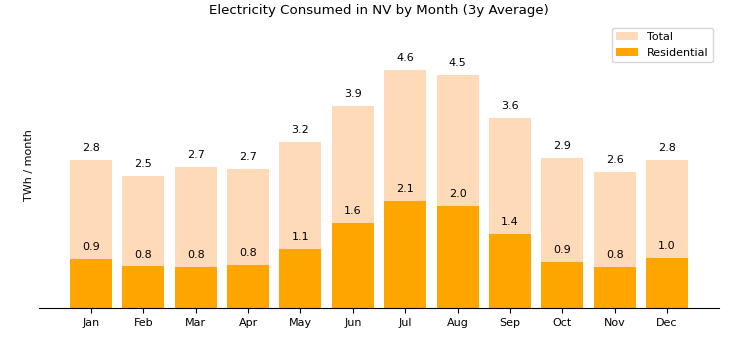
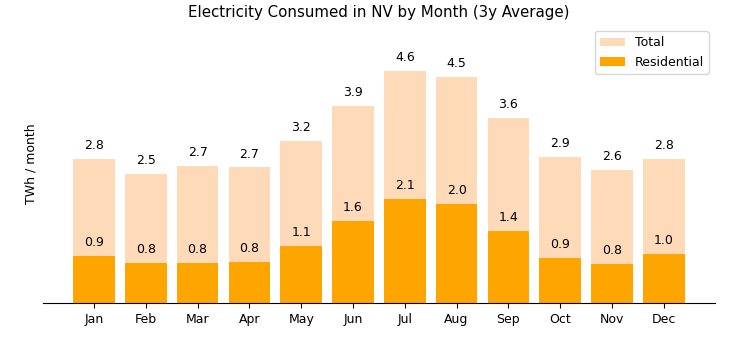
find winter-summer peaks

diff --git a/post3.py b/post3.py
@@ -76,6 +76,28 @@ def print_normalized_graphs(NVE: NVenergyUsage, start: datetime, end: datetime):
                                        path = filepath)
 
 
+def key_months(df: pd.DataFrame):
+
+    print(df)
+
+    d = dict()
+
+    d["Min month"] = df["Month Number"].iloc[df["Usage"].idxmin()]
+    d["Min usage"] = min(df["Usage"])
+
+    df_summer = df[ [ m in range(5, 11) for m in df["Month Number"]] ]
+    df_winter = df[ [ m not in range(5, 11) for m in df["Month Number"]] ]
+
+    d["Winter peak month"] = df["Month Number"].iloc[df_winter["Usage"].idxmax()]
+    d["Winter peak usage"] = max(df_winter["Usage"])
+
+    d["Summer peak month"] = df["Month Number"].iloc[df_summer["Usage"].idxmax()]
+    d["Summer peak usage"] = max(df_summer["Usage"])
+
+    print(d)
+
+    return d
+
 if __name__ == "__main__":
     NVE = NVenergyUsage(UsagePaths.NV_Kramer)
 
@@ -85,9 +107,18 @@ if __name__ == "__main__":
 # first part of blog post -- print statewide graphs NV
     susNV = StateUsageStats("NV")
     print_state_table(susNV, s, e, filepath = f"post3/post3_NV_statewide.png")
-    print("Total NV: ", susNV.total_for_period(s, e, Sector.TOTAL))
-    print("Residential NV: ", susNV.total_for_period(s, e, Sector.RESIDENTIAL))
-    print("Months: ", 12*(e.year - s.year) + (e.month - s.month + 1))
+
+#    print("Total NV: ", susNV.total_for_period(s, e, Sector.TOTAL))
+#    print("Residential NV: ", susNV.total_for_period(s, e, Sector.RESIDENTIAL))
+#    print("Months: ", 12*(e.year - s.year) + (e.month - s.month + 1))
+
+
+    avgs = susNV.usage_monthly_average(s, e, Sector.RESIDENTIAL)
+#    print(avgs)
+#    print(max(avgs["Usage"]) / min(avgs["Usage"]))
+    key_months(avgs)
+    
+
     
         
 

diff --git a/monthlyPlots.py b/monthlyPlots.py
@@ -15,7 +15,7 @@ class MonthlyPlots:
 
     def monthlyUsageBarChart(x_values, y_values_list, y_axis_label, series_labels, series_colors, fmt_str, title, path):
 
-        plt.rcParams.update({'font.size': 8})
+        plt.rcParams.update({'font.size': 9})
         fig, ax = plt.subplots(figsize = (7.5, 3.5))
 
         maxy = max([max(l) for l in y_values_list])
